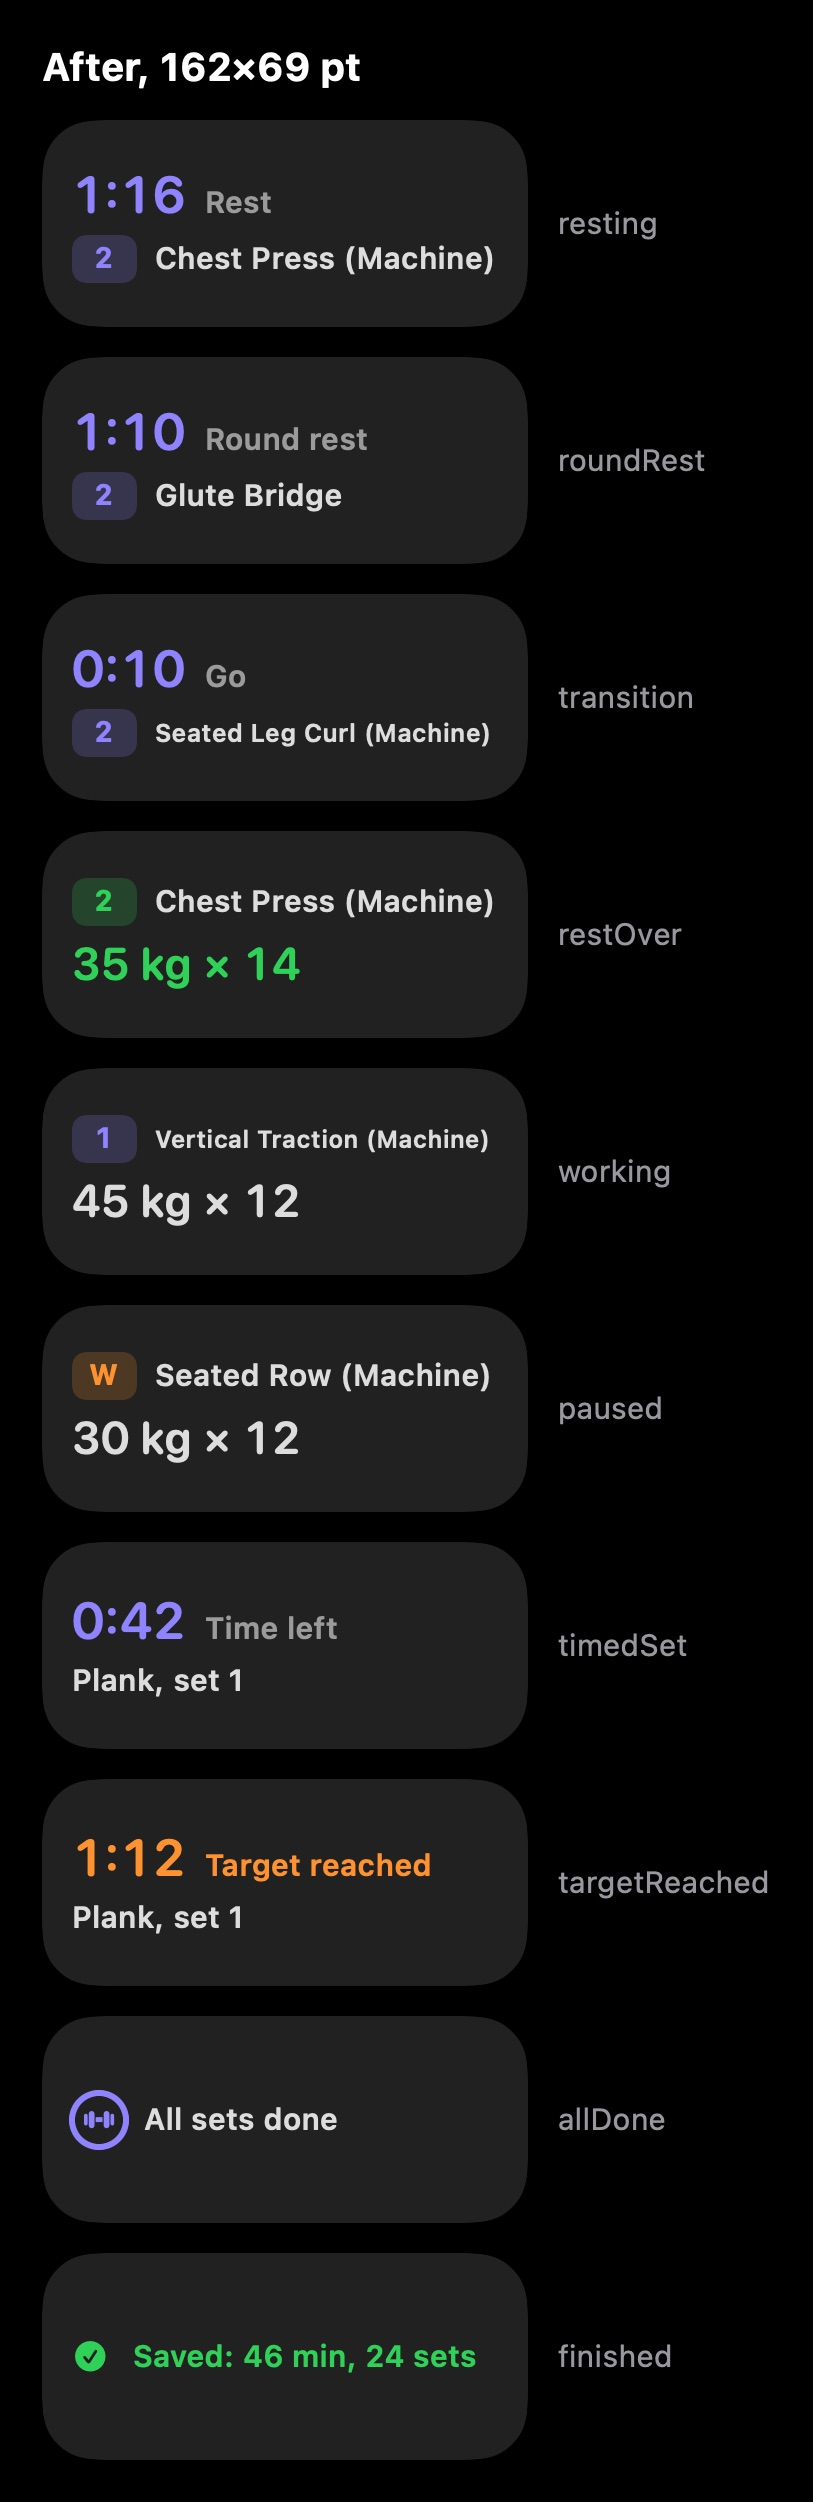
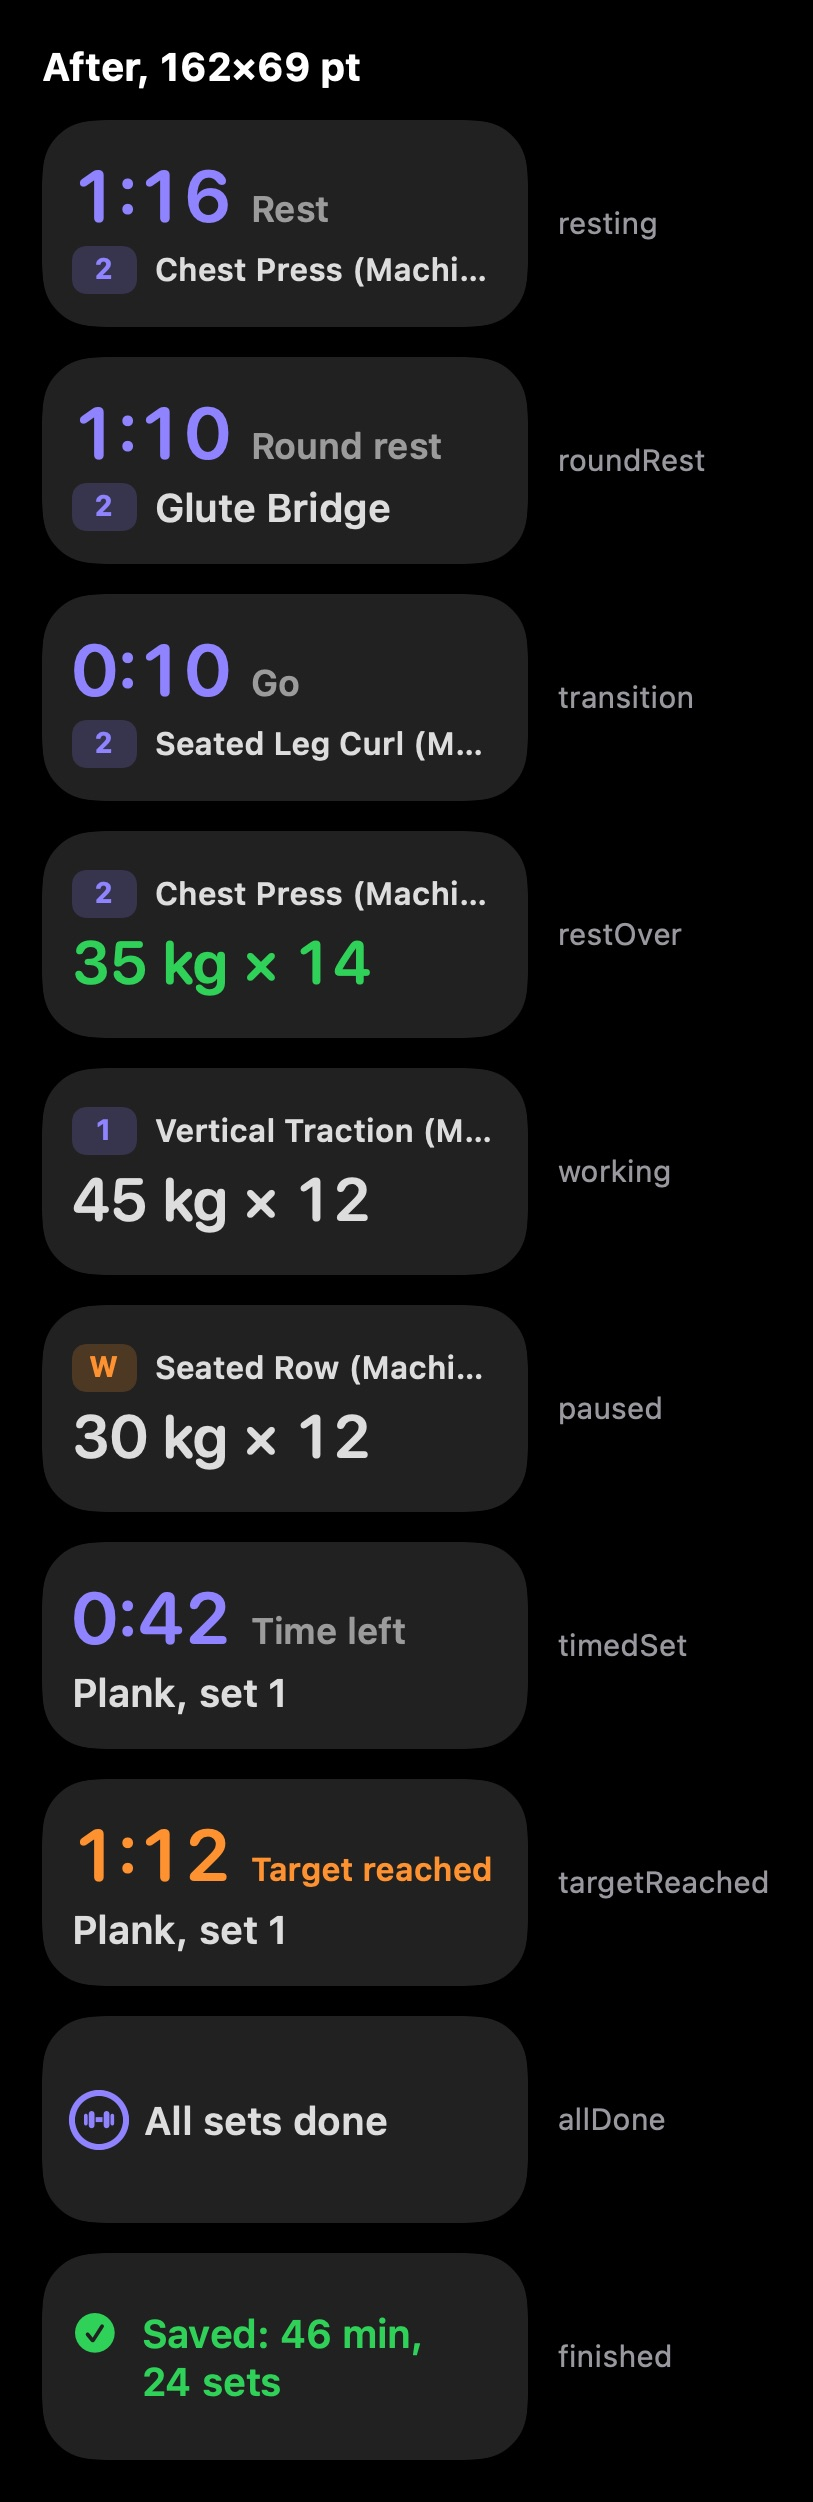
fix(apple): apply the review of the workout set labels
- Decode a Live Activity state an earlier build wrote: synthesized decoding
  refused the keys added since, so an update mid-workout blanked it.
- The set label is the accent or orange, never the phase's green or orange.
- Fixed sizes in the watch's Smart Stack, so the watch text size cannot clip it.
- A group's folded warm-ups name each exercise; groups read apart to VoiceOver;
  the reorder sheet drops the group letter; done lines show in dark mode and
  stay readable with Increase Contrast.

diff --git a/apps/apple/SubstrateWorkoutsWidgets/SessionLiveActivity.swift b/apps/apple/SubstrateWorkoutsWidgets/SessionLiveActivity.swift
@@ -212,6 +212,7 @@ struct SetLabelChip: View {
 
     var body: some View {
         let color = isWarmup ? Color.orange : tint
+        let spoken = isWarmup ? "Warm-up" : label.allSatisfy(\.isNumber) ? "Set \(label)" : nil
         Text(label)
             .font(.system(size: size * 0.6, weight: .bold))
             .monospacedDigit()
@@ -220,7 +221,8 @@ struct SetLabelChip: View {
             .foregroundStyle(color)
             .frame(width: size * 1.35, height: size)
             .background(color.opacity(0.2), in: .rect(cornerRadius: size * 0.3))
-            .accessibilityLabel(isWarmup ? "Warm-up" : "Set \(label)")
+            .accessibilityLabel(spoken ?? "")
+            .accessibilityHidden(spoken == nil)
     }
 }
 
@@ -234,7 +236,8 @@ struct ExerciseLine: View {
         if !phase.state.exercise.isEmpty {
             HStack(spacing: 6) {
                 if let label = phase.state.setLabel {
-                    SetLabelChip(label: label, isWarmup: phase.state.isWarmup, tint: phase.tint, size: chipSize)
+                    // The accent, never the phase's green or orange: orange means a warm-up.
+                    SetLabelChip(label: label, isWarmup: phase.state.isWarmup, tint: .workoutsAccent, size: chipSize)
                 }
                 Text(phase.state.exercise)
                     .font(font)
@@ -519,22 +522,22 @@ struct SmallActivityView: View {
             case .counting:
                 // A transition's label names the exercise the line under it shows.
                 countdownRow(caption: phase.countdown?.kind == .transition ? "Go" : phase.countdown?.label ?? "")
-                ExerciseLine(phase: phase, font: .caption.weight(.semibold), chipSize: 16)
+                ExerciseLine(phase: phase, font: Self.lineFont, chipSize: 16)
                     .minimumScaleFactor(0.8)
             case .timing, .targetReached:
                 countdownRow(caption: phase.timedCaption)
                 Text(phase.countdown?.label ?? phase.state.exercise)
-                    .font(.caption.weight(.semibold))
+                    .font(Self.lineFont)
                     .lineLimit(1)
                     .minimumScaleFactor(0.8)
             case .over, .working:
                 if phase.state.nextRowID == nil {
                     allDone
                 } else {
-                    ExerciseLine(phase: phase, font: .caption.weight(.semibold), chipSize: 16)
+                    ExerciseLine(phase: phase, font: Self.lineFont, chipSize: 16)
                         .minimumScaleFactor(0.8)
                     Text(phase.state.values.isEmpty ? phase.state.next : phase.state.values)
-                        .font(.system(.title3, design: .rounded, weight: .semibold))
+                        .font(.system(size: 20, weight: .semibold, design: .rounded))
                         .monospacedDigit()
                         .foregroundStyle(phase.mode == .over ? phase.tint : .primary)
                         .lineLimit(1)
@@ -542,7 +545,7 @@ struct SmallActivityView: View {
                 }
             case .finished:
                 Label(phase.state.finishedSummary ?? "", systemImage: "checkmark.circle.fill")
-                    .font(.caption.weight(.semibold))
+                    .font(Self.lineFont)
                     .foregroundStyle(phase.tint)
                     .lineLimit(2)
                     .minimumScaleFactor(0.8)
@@ -551,17 +554,21 @@ struct SmallActivityView: View {
         .frame(maxWidth: .infinity, maxHeight: .infinity, alignment: .leading)
     }
 
+    /// Fixed sizes: the slot does not grow with the watch's text size, so
+    /// text styles that do would clip it again (the owner's complaint).
+    private static let lineFont = Font.system(size: 13, weight: .semibold)
+
     /// The countdown large, its word beside it: `1:16  Rest`.
     private func countdownRow(caption: String) -> some View {
         HStack(alignment: .firstTextBaseline, spacing: 6) {
             CountdownText(phase: phase)
-                .font(.system(.title2, design: .rounded, weight: .semibold))
+                .font(.system(size: 24, weight: .semibold, design: .rounded))
                 .foregroundStyle(phase.tint)
                 .lineLimit(1)
                 .minimumScaleFactor(0.6)
                 .layoutPriority(1)
             Text(caption)
-                .font(.caption2.weight(.semibold))
+                .font(.system(size: 12, weight: .semibold))
                 .foregroundStyle(phase.mode == .targetReached ? phase.tint : .secondary)
                 .lineLimit(1)
                 .minimumScaleFactor(0.8)
@@ -572,7 +579,7 @@ struct SmallActivityView: View {
         HStack(spacing: 6) {
             SetsRing(phase: phase, size: 18)
             Text(phase.state.next)
-                .font(.caption.weight(.semibold))
+                .font(Self.lineFont)
                 .lineLimit(2)
                 .minimumScaleFactor(0.8)
         }
@@ -586,7 +593,7 @@ struct CompactLeading: View {
 
     var body: some View {
         if let label = phase.state.setLabel, phase.mode != .finished {
-            SetLabelChip(label: label, isWarmup: phase.state.isWarmup, tint: phase.tint, size: 18)
+            SetLabelChip(label: label, isWarmup: phase.state.isWarmup, tint: .workoutsAccent, size: 18)
         } else {
             Image(systemName: phase.mode == .finished ? "checkmark.circle.fill" : "dumbbell.fill")
                 .foregroundStyle(phase.tint)

diff --git a/apps/apple/SubstrateWorkouts/Sources/Shared/WorkoutsActivityAttributes.swift b/apps/apple/SubstrateWorkouts/Sources/Shared/WorkoutsActivityAttributes.swift
@@ -61,6 +61,29 @@ nonisolated struct WorkoutsActivityAttributes: ActivityAttributes, Sendable {
 }
 
 extension WorkoutsActivityAttributes.ContentState {
+    /// Decodes a state an earlier build wrote: an activity outlives an update
+    /// of the app, and synthesized decoding refuses a missing key even where
+    /// the property has a default. Keys added since read as their defaults.
+    nonisolated init(from decoder: any Decoder) throws {
+        let c = try decoder.container(keyedBy: CodingKeys.self)
+        try self.init(
+            clockStart: c.decode(Date.self, forKey: .clockStart),
+            clockPausedAt: c.decodeIfPresent(Date.self, forKey: .clockPausedAt),
+            exercise: c.decode(String.self, forKey: .exercise),
+            setLabel: c.decodeIfPresent(String.self, forKey: .setLabel),
+            isWarmup: c.decodeIfPresent(Bool.self, forKey: .isWarmup) ?? false,
+            values: c.decodeIfPresent(String.self, forKey: .values) ?? "",
+            next: c.decode(String.self, forKey: .next),
+            nextRowID: c.decodeIfPresent(String.self, forKey: .nextRowID),
+            canComplete: c.decodeIfPresent(Bool.self, forKey: .canComplete) ?? true,
+            countdown: c.decodeIfPresent(Countdown.self, forKey: .countdown),
+            setsDone: c.decode(Int.self, forKey: .setsDone),
+            setsPlanned: c.decode(Int.self, forKey: .setsPlanned),
+            finishedSummary: c.decodeIfPresent(String.self, forKey: .finishedSummary),
+            revision: c.decode(Int.self, forKey: .revision)
+        )
+    }
+
     /// The `staleDate` every update carries: the countdown's end, so the
     /// widget flips to "Rest over" at that instant with no app code running
     /// (DESIGN.md §9.1). A finished session is never stale.

diff --git a/apps/apple/WorkoutsKit/Sources/WorkoutsCore/Present/Rows/RowsPresenter.swift b/apps/apple/WorkoutsKit/Sources/WorkoutsCore/Present/Rows/RowsPresenter.swift
@@ -185,7 +185,10 @@ struct RowsBuilder {
         let rows = units.joined().compactMap { state.rows[$0] }
         guard rows.allSatisfy(\.isCompleted) else { return units.flatMap { unitItems($0, isGroup: isGroup) } }
         let sets = rows.map { item($0, isGroup: isGroup) }
-        let values = sets.map(\.values)
+        // In a group each value says whose it is: the labels are all `W`.
+        let values = sets.map { set in
+            isGroup ? "\(p.exerciseName(state.slot(set.slot)?.exercise ?? ExerciseID(""))) \(set.values)" : set.values
+        }
         let previous = rows.map { evaluator.previous($0.id)?.values }
         var comparison: RowsChange?
         if previous.allSatisfy({ $0 != nil }) {
@@ -203,7 +206,10 @@ struct RowsBuilder {
             comparison = RowsText.firstTime
         }
         let title = rows.count == 1 ? "Warm-up" : "Warm-ups"
-        let spoken = rows.map { spokenValues(of: $0) }.joined(separator: "; ")
+        let spoken = rows.map { row in
+            let values = spokenValues(of: row)
+            return isGroup ? "\(p.exerciseName(state.slot(row.slot)?.exercise ?? ExerciseID(""))): \(values)" : values
+        }.joined(separator: "; ")
         let tail = comparison.map { change in
             ". " + (change == RowsText.sameAsLastTime ? "The same as last time" : change.text.capitalizedFirst)
         } ?? ""

diff --git a/apps/apple/SubstrateWorkouts/Sources/Views/Session/Rows/RowsBlockView.swift b/apps/apple/SubstrateWorkouts/Sources/Views/Session/Rows/RowsBlockView.swift
@@ -33,6 +33,10 @@ struct RowsBlockView: View {
     private var holdsOpenRow: Bool { layout.openRow.map { block.item($0) != nil } ?? false }
     private var groupHeader: GroupHeader? { presentation.blocks.first { $0.id == block.id }?.group }
     private var cards: [ExerciseCard] { block.slots.compactMap { presentation.card($0) } }
+    /// `Superset, Glute Bridge and Bird Dog`: two groups never sound the same.
+    private var spokenTitle: String {
+        block.group == nil ? block.title : [block.title, block.subtitle].compactMap { $0 }.joined(separator: ", ")
+    }
 
     // MARK: - The folded line
 
@@ -129,7 +133,7 @@ struct RowsBlockView: View {
                     roundIcon("chevron.up")
                 }
                 .buttonStyle(.plain)
-                .accessibilityLabel("Fold \(block.title)")
+                .accessibilityLabel("Fold \(spokenTitle)")
             }
             menu
         }
@@ -184,7 +188,7 @@ struct RowsBlockView: View {
         } label: {
             roundIcon("ellipsis")
         }
-        .accessibilityLabel("\(block.title) options")
+        .accessibilityLabel("\(spokenTitle) options")
     }
 
     private func roundIcon(_ symbol: String) -> some View {

diff --git a/apps/apple/SubstrateWorkouts/Sources/Views/Session/Rows/RowsStyle.swift b/apps/apple/SubstrateWorkouts/Sources/Views/Session/Rows/RowsStyle.swift
@@ -21,7 +21,12 @@ enum RowsStyle {
     /// enough that it never reads as the set to do now (owner, 2026-11-02:
     /// "I keep clicking on old ones"). Stronger with Increase Contrast.
     static func doneFill(_ contrast: ColorSchemeContrast) -> Color {
-        Color(.systemGreen).opacity(contrast == .increased ? 0.16 : 0.08)
+        let strong = contrast == .increased
+        // Dark cards need more of the green to show at all.
+        return Color(UIColor { traits in
+            let alpha: CGFloat = traits.userInterfaceStyle == .dark ? (strong ? 0.24 : 0.14) : (strong ? 0.16 : 0.08)
+            return UIColor.systemGreen.withAlphaComponent(alpha)
+        })
     }
 
     /// The colour of an editor's controls: the accent, or orange for a warm-up or a drop.

diff --git a/apps/apple/SubstrateWorkouts/Sources/Views/Session/ReorderSheet.swift b/apps/apple/SubstrateWorkouts/Sources/Views/Session/ReorderSheet.swift
@@ -73,7 +73,7 @@ struct ReorderSheet: View {
             guard let group = block.group else {
                 return block.cards.map { Item(kind: .slot($0.slot, name: $0.name, group: nil)) }
             }
-            let header = Item(kind: .group(group.key, title: "\(group.kind.label) \(group.key.uppercased())", color: group.colorIndex))
+            let header = Item(kind: .group(group.key, title: group.kind.label, color: group.colorIndex))
             return [header] + block.cards.map { Item(kind: .slot($0.slot, name: $0.name, group: group.key)) }
         }
     }

diff --git a/apps/apple/WorkoutsKit/Sources/WorkoutsCore/Present/Rows/RowsLayout.swift b/apps/apple/WorkoutsKit/Sources/WorkoutsCore/Present/Rows/RowsLayout.swift
@@ -595,7 +595,7 @@ public struct RowsNextPart: Equatable, Sendable {
         self.setLabel = setLabel
         self.isWarmup = isWarmup
         self.label = label
-        self.loggedText = loggedText ?? "\(label.isEmpty ? "Set \(setLabel)" : label) logged"
+        self.loggedText = loggedText ?? "\(label.isEmpty ? (isWarmup ? "Warm-up" : "Set \(setLabel)") : label) logged"
         self.tint = tint
         self.fields = fields
         self.rpe = rpe

diff --git a/apps/apple/SubstrateWorkouts/Sources/Views/Session/Rows/RowsLines.swift b/apps/apple/SubstrateWorkouts/Sources/Views/Session/Rows/RowsLines.swift
@@ -210,6 +210,8 @@ struct RowsSetLine<MenuItems: View>: View {
 
     private var valuesColor: Color {
         if item.valuesChanged, !isDone { return .accentColor }
+        // Struck through and grey is hard to read with Increase Contrast: the strike alone says done there.
+        if isDone, contrast == .increased { return .primary }
         return item.state == .now ? .primary : .secondary
     }
 
